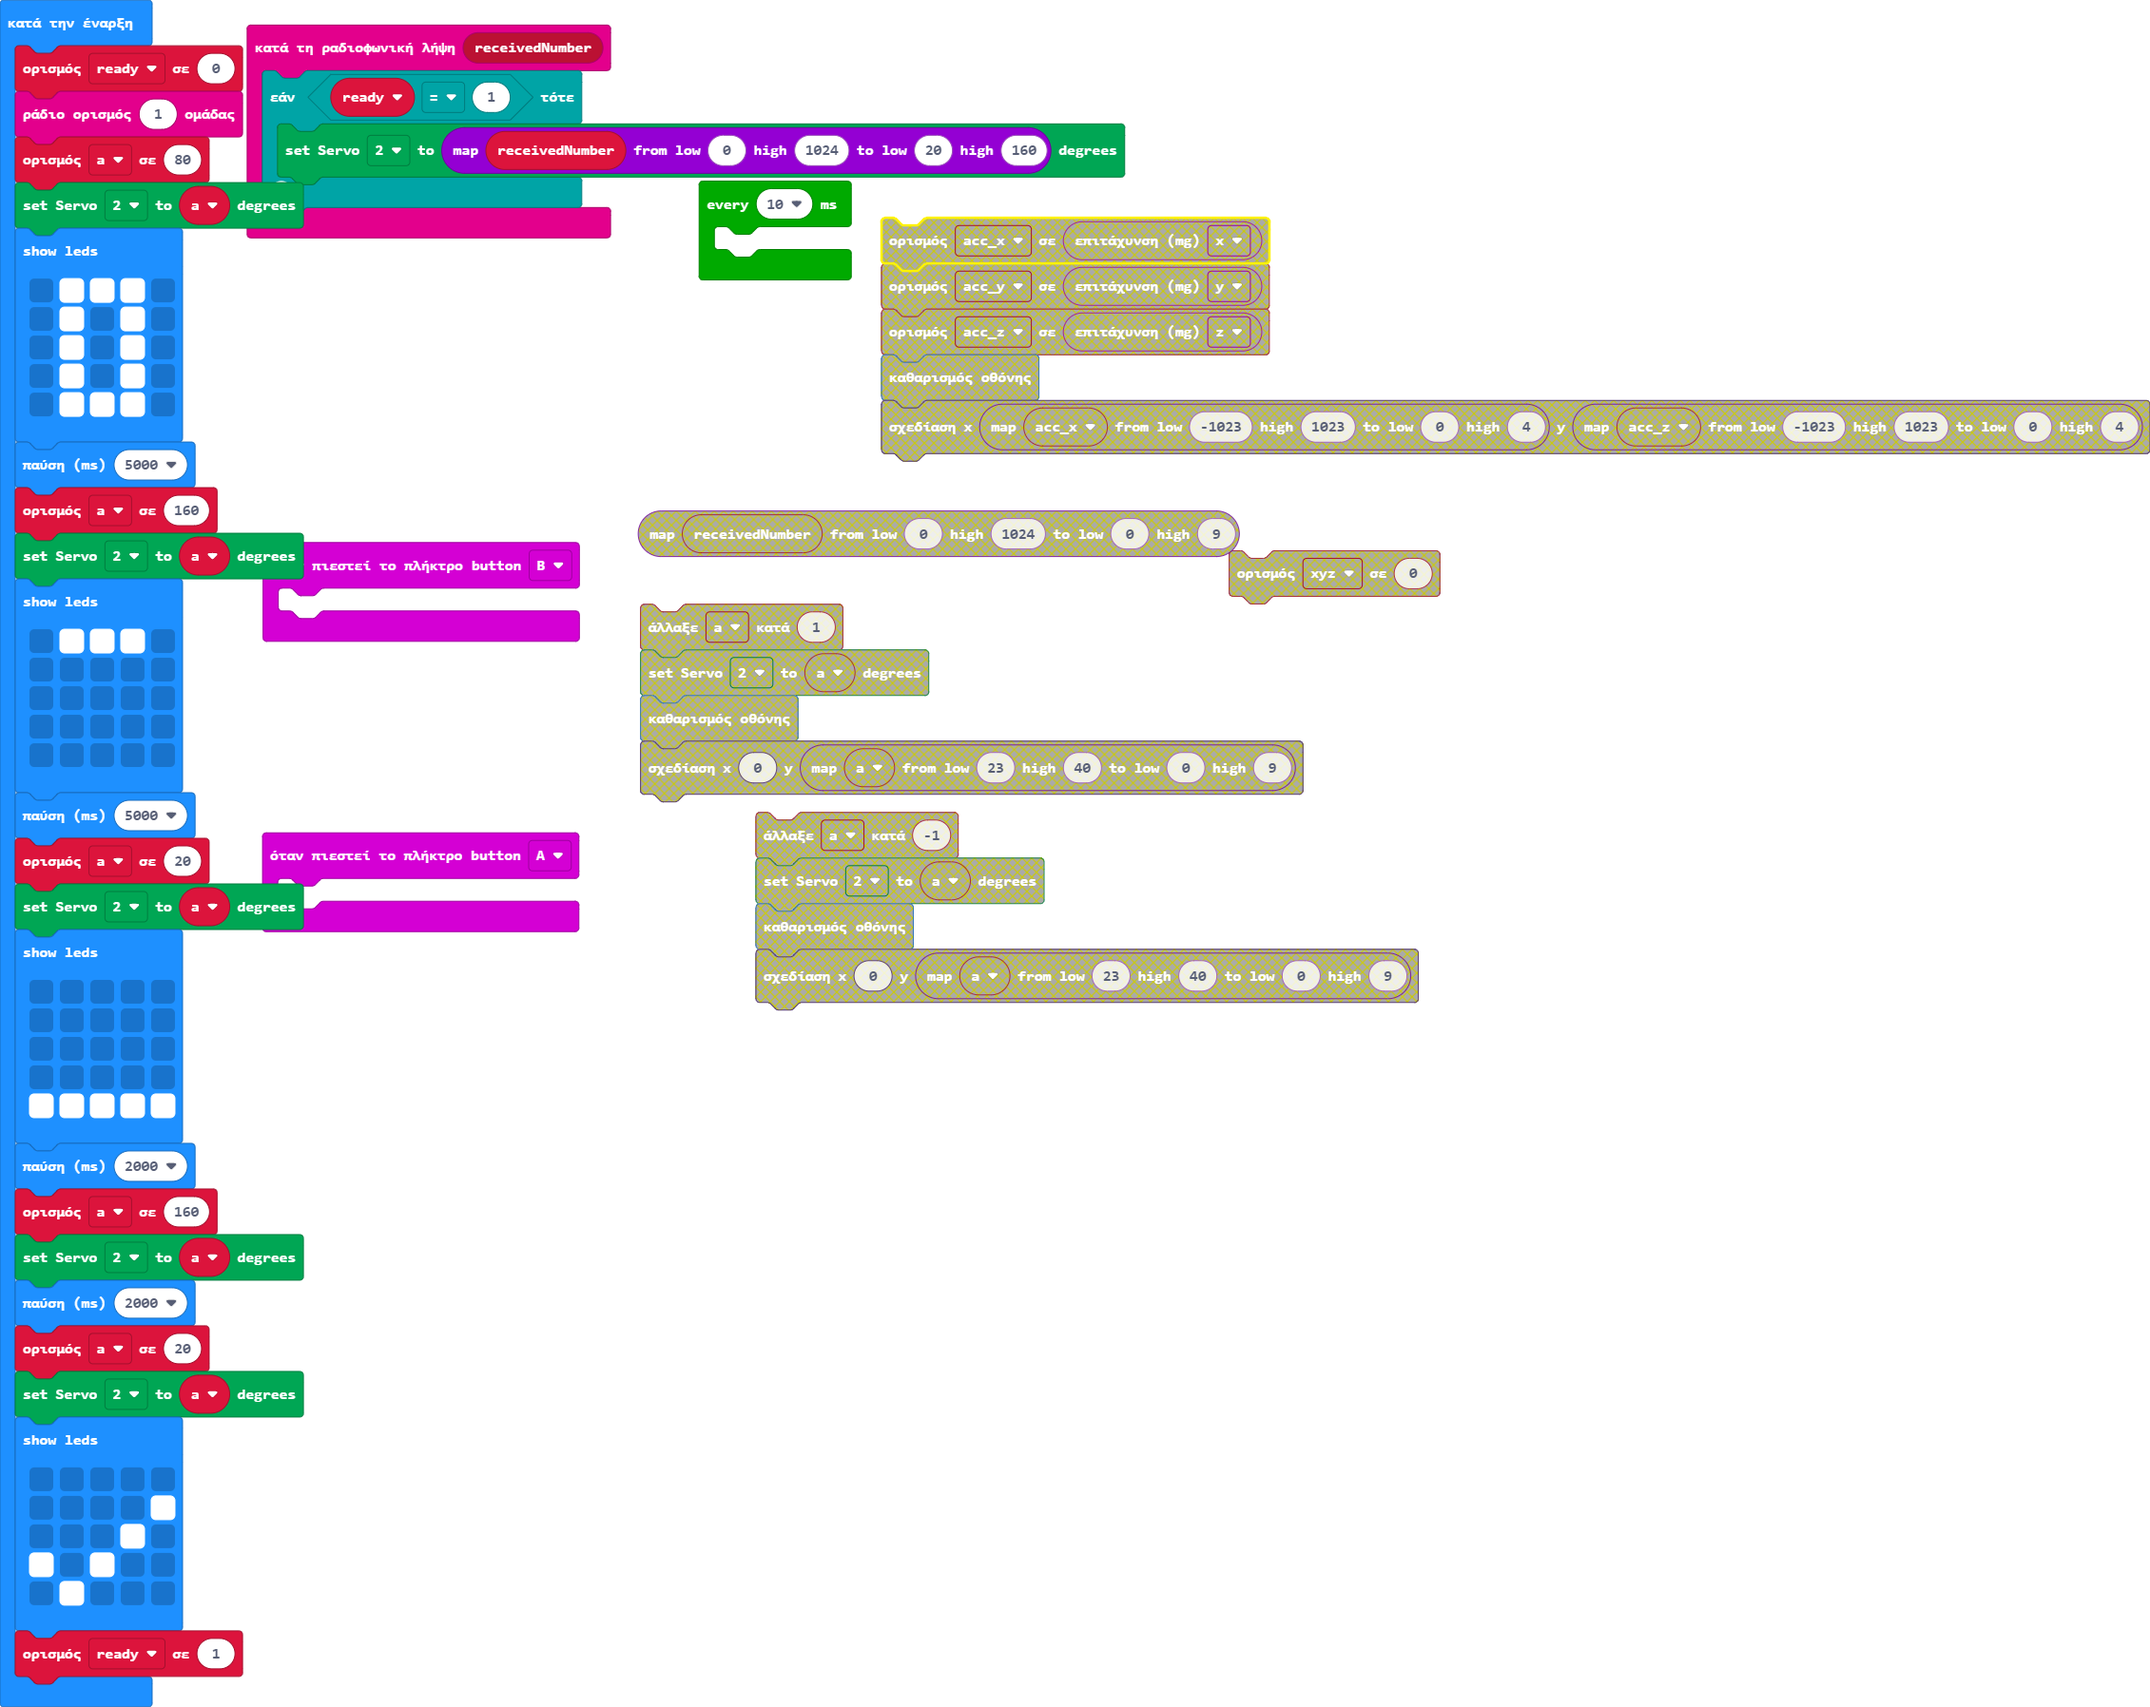
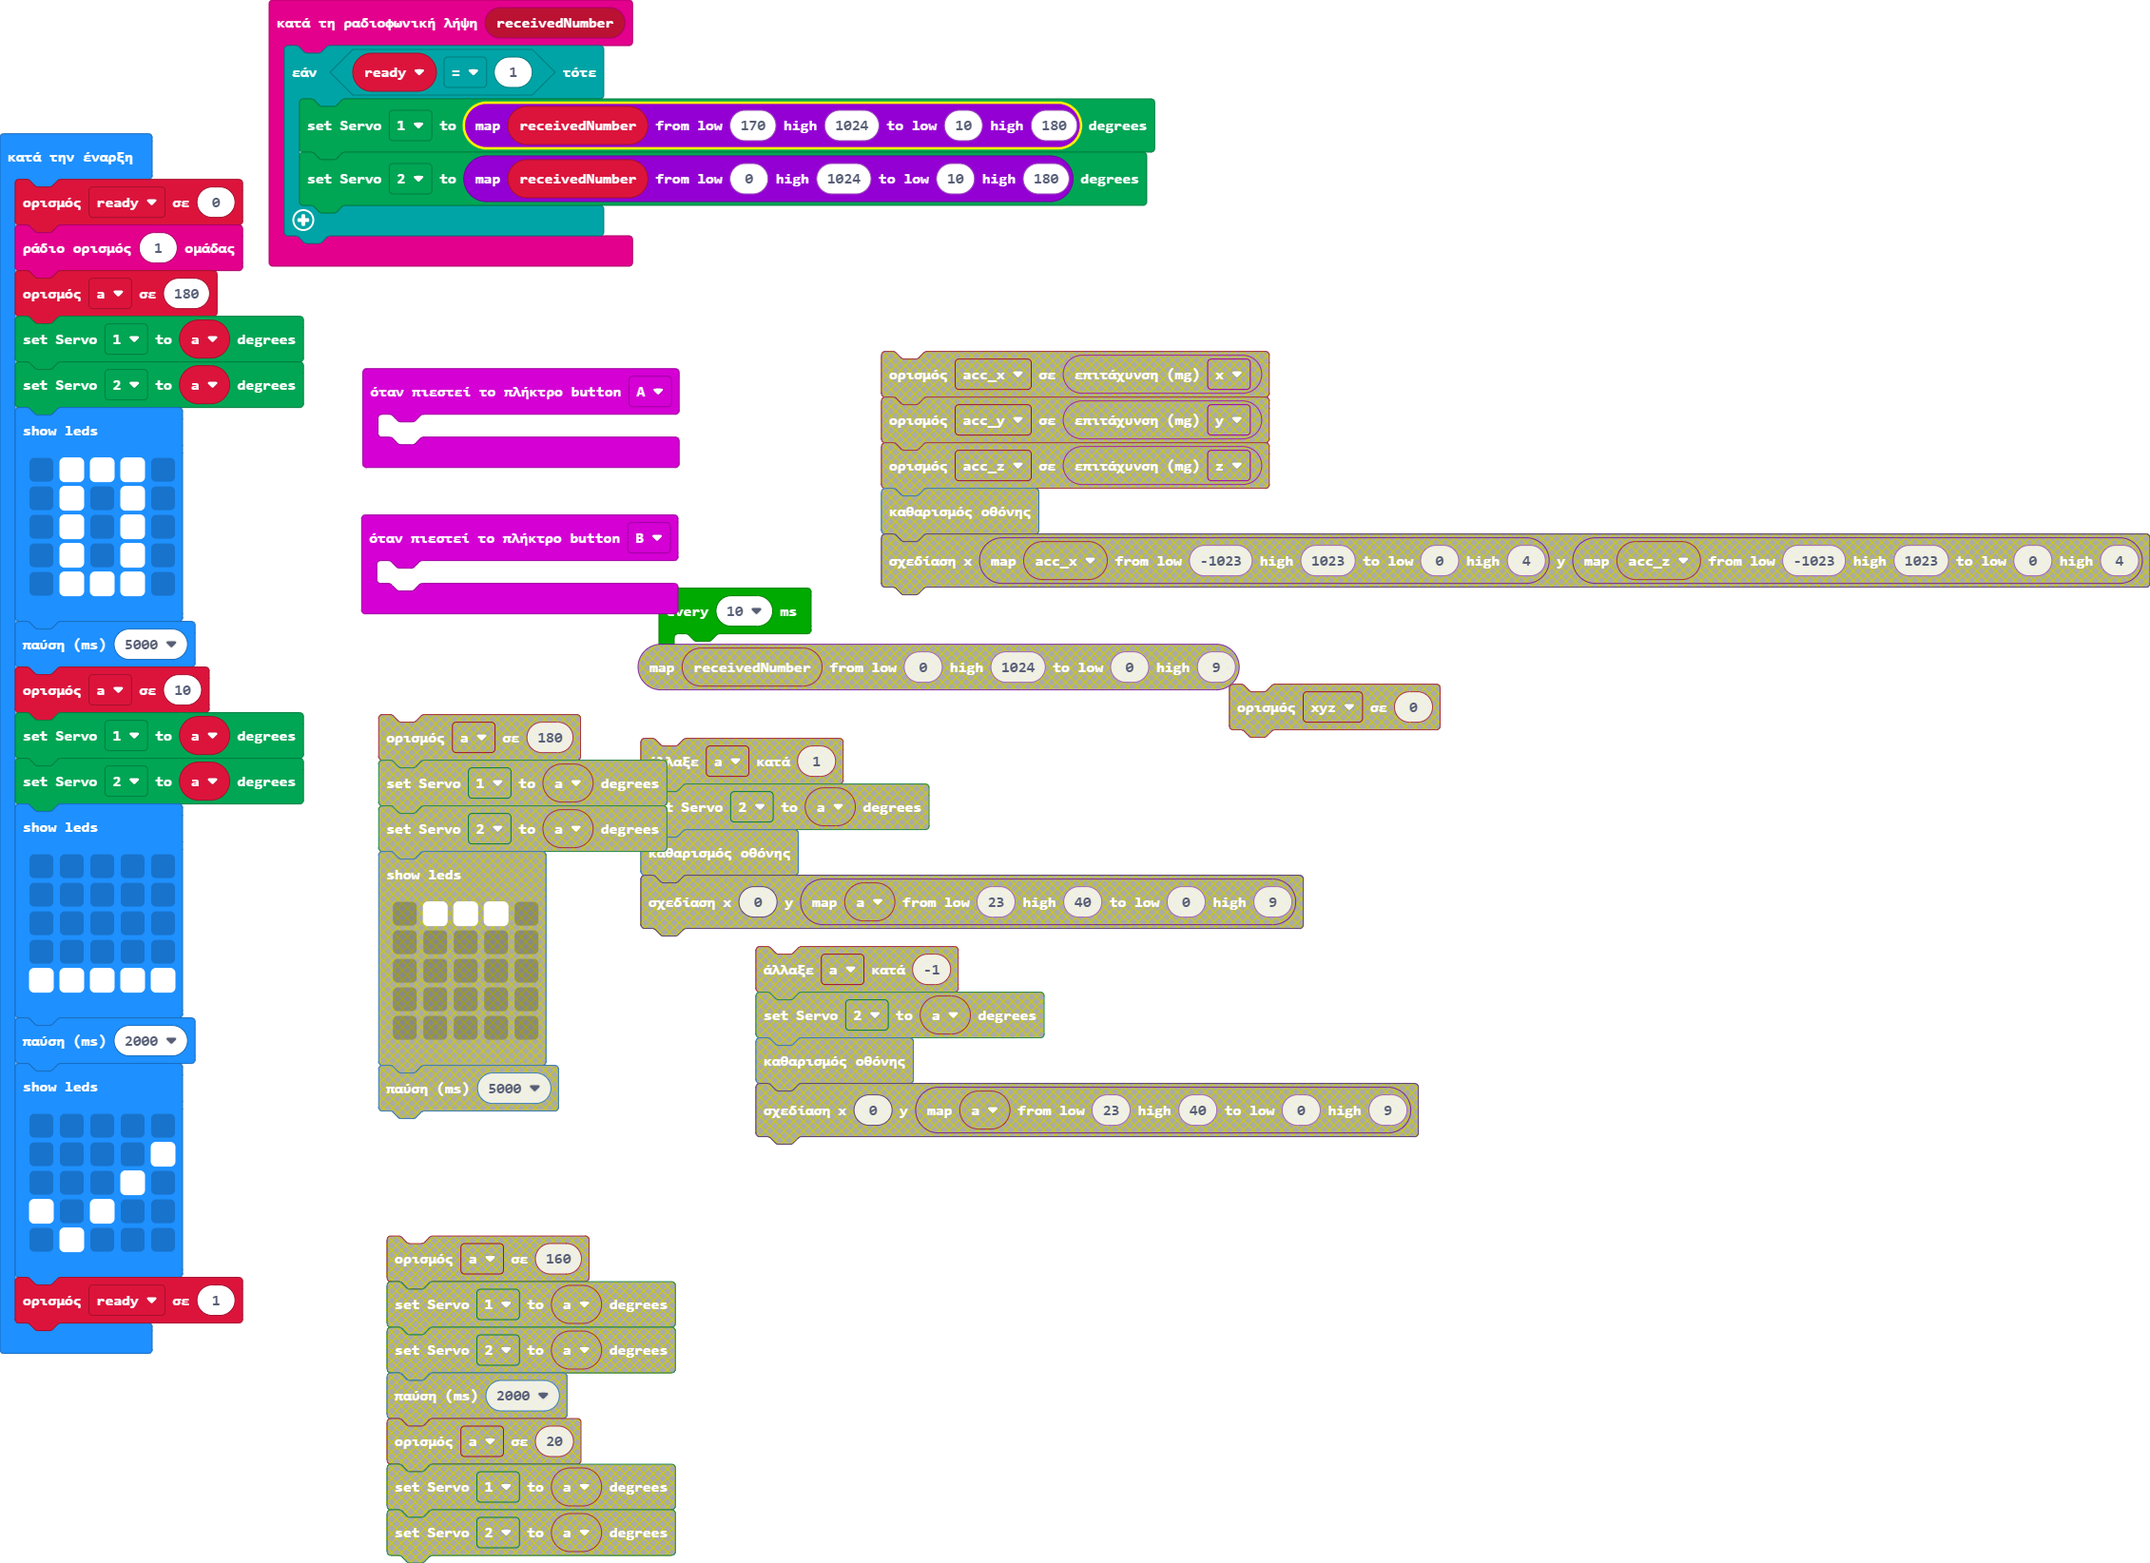
Synchronizing motors ESCs

diff --git a/main.ts b/main.ts
@@ -1,6 +1,7 @@
 radio.onReceivedNumber(function (receivedNumber) {
     if (ready == 1) {
-        Kitronik_Robotics_Board.servoWrite(Kitronik_Robotics_Board.Servos.Servo2, Math.map(receivedNumber, 0, 1024, 20, 160))
+        Kitronik_Robotics_Board.servoWrite(Kitronik_Robotics_Board.Servos.Servo1, Math.map(receivedNumber, 170, 1024, 10, 180))
+        Kitronik_Robotics_Board.servoWrite(Kitronik_Robotics_Board.Servos.Servo2, Math.map(receivedNumber, 0, 1024, 10, 180))
     }
 })
 input.onButtonPressed(Button.A, function () {
@@ -12,7 +13,8 @@ input.onButtonPressed(Button.B, function () {
 let ready = 0
 ready = 0
 radio.setGroup(1)
-let a = 80
+let a = 180
+Kitronik_Robotics_Board.servoWrite(Kitronik_Robotics_Board.Servos.Servo1, a)
 Kitronik_Robotics_Board.servoWrite(Kitronik_Robotics_Board.Servos.Servo2, a)
 basic.showLeds(`
     . # # # .
@@ -22,17 +24,8 @@ basic.showLeds(`
     . # # # .
     `)
 basic.pause(5000)
-a = 160
-Kitronik_Robotics_Board.servoWrite(Kitronik_Robotics_Board.Servos.Servo2, a)
-basic.showLeds(`
-    . # # # .
-    . . . . .
-    . . . . .
-    . . . . .
-    . . . . .
-    `)
-basic.pause(5000)
-a = 20
+a = 10
+Kitronik_Robotics_Board.servoWrite(Kitronik_Robotics_Board.Servos.Servo1, a)
 Kitronik_Robotics_Board.servoWrite(Kitronik_Robotics_Board.Servos.Servo2, a)
 basic.showLeds(`
     . . . . .
@@ -42,11 +35,6 @@ basic.showLeds(`
     # # # # #
     `)
 basic.pause(2000)
-a = 160
-Kitronik_Robotics_Board.servoWrite(Kitronik_Robotics_Board.Servos.Servo2, a)
-basic.pause(2000)
-a = 20
-Kitronik_Robotics_Board.servoWrite(Kitronik_Robotics_Board.Servos.Servo2, a)
 basic.showLeds(`
     . . . . .
     . . . . #

diff --git a/main.py b/main.py
@@ -1,32 +1,24 @@
 def on_received_number(receivedNumber):
     if ready == 1:
         Kitronik_Robotics_Board.servo_write(Kitronik_Robotics_Board.Servos.SERVO2,
-            Math.map(receivedNumber, 0, 1024, 0, 180))
-        basic.clear_screen()
-        led.plot(0, Math.map(receivedNumber, 0, 1024, 0, 9))
+            Math.map(receivedNumber, 0, 1024, 20, 160))
+        Kitronik_Robotics_Board.servo_write(Kitronik_Robotics_Board.Servos.SERVO1,
+            Math.map(receivedNumber, 0, 1024, 20, 160))
 radio.on_received_number(on_received_number)
 
 def on_button_pressed_a():
-    global a
-    a += -1
-    Kitronik_Robotics_Board.servo_write(Kitronik_Robotics_Board.Servos.SERVO2, a)
-    basic.clear_screen()
-    led.plot(0, Math.map(a, 23, 40, 0, 9))
+    pass
 input.on_button_pressed(Button.A, on_button_pressed_a)
 
 def on_button_pressed_b():
-    global a
-    a += 1
-    Kitronik_Robotics_Board.servo_write(Kitronik_Robotics_Board.Servos.SERVO2, a)
-    basic.clear_screen()
-    led.plot(0, Math.map(a, 23, 40, 0, 9))
+    pass
 input.on_button_pressed(Button.B, on_button_pressed_b)
 
-a = 0
 ready = 0
 ready = 0
 radio.set_group(1)
 a = 80
+Kitronik_Robotics_Board.servo_write(Kitronik_Robotics_Board.Servos.SERVO1, a)
 Kitronik_Robotics_Board.servo_write(Kitronik_Robotics_Board.Servos.SERVO2, a)
 basic.show_leds("""
     . # # # .
@@ -37,6 +29,7 @@ basic.show_leds("""
 """)
 basic.pause(5000)
 a = 160
+Kitronik_Robotics_Board.servo_write(Kitronik_Robotics_Board.Servos.SERVO1, a)
 Kitronik_Robotics_Board.servo_write(Kitronik_Robotics_Board.Servos.SERVO2, a)
 basic.show_leds("""
     . # # # .
@@ -47,6 +40,7 @@ basic.show_leds("""
 """)
 basic.pause(5000)
 a = 20
+Kitronik_Robotics_Board.servo_write(Kitronik_Robotics_Board.Servos.SERVO1, a)
 Kitronik_Robotics_Board.servo_write(Kitronik_Robotics_Board.Servos.SERVO2, a)
 basic.show_leds("""
     . . . . .
@@ -57,9 +51,11 @@ basic.show_leds("""
 """)
 basic.pause(2000)
 a = 160
+Kitronik_Robotics_Board.servo_write(Kitronik_Robotics_Board.Servos.SERVO1, a)
 Kitronik_Robotics_Board.servo_write(Kitronik_Robotics_Board.Servos.SERVO2, a)
 basic.pause(2000)
 a = 20
+Kitronik_Robotics_Board.servo_write(Kitronik_Robotics_Board.Servos.SERVO1, a)
 Kitronik_Robotics_Board.servo_write(Kitronik_Robotics_Board.Servos.SERVO2, a)
 basic.show_leds("""
     . . . . .
@@ -69,3 +65,7 @@ basic.show_leds("""
         . # . . .
 """)
 ready = 1
+
+def on_every_interval():
+    pass
+loops.every_interval(10, on_every_interval)
